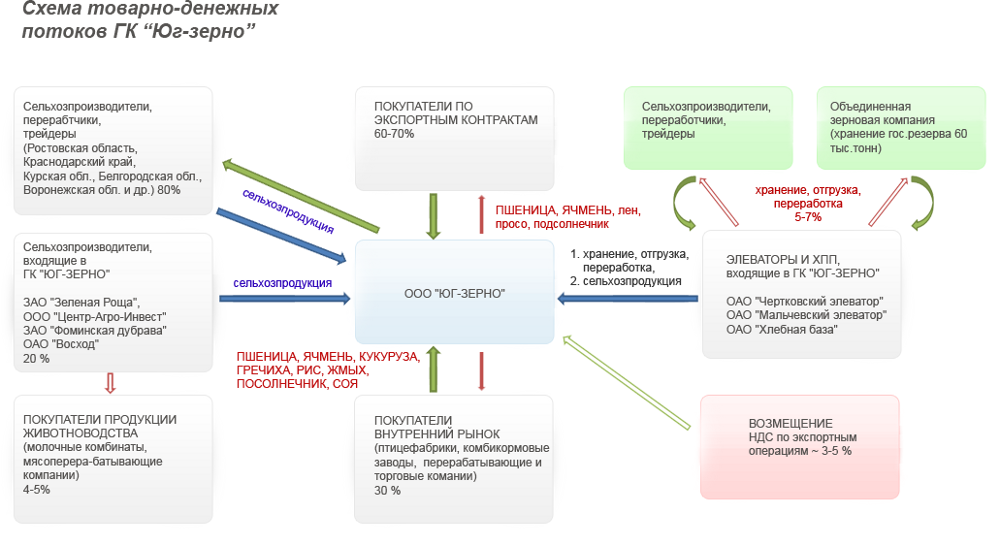
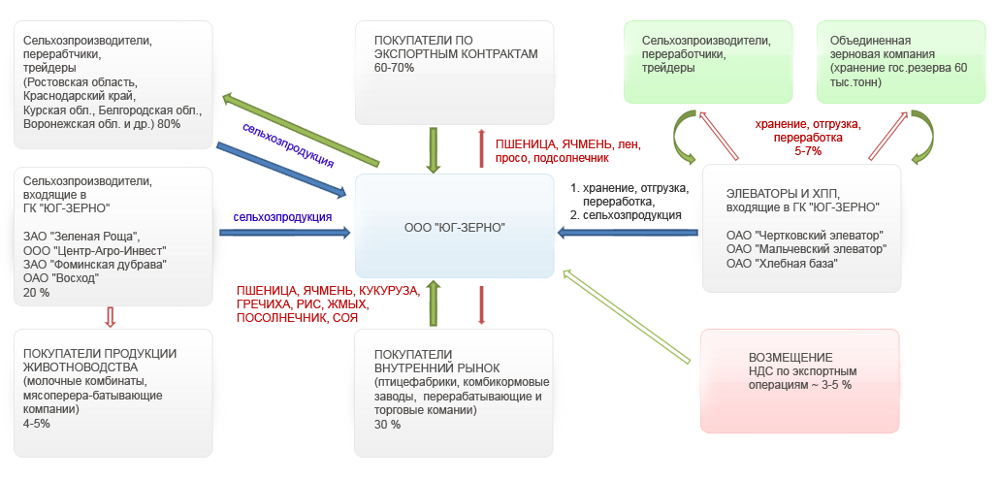
главную переделал

diff --git a/www/css/style.css b/www/css/style.css
@@ -97,6 +97,41 @@ footer {
 .main_block h2 {
 	font-size: 12px;
 }
+
+.history_main {
+	color: #545250;
+	font-family: Arial;
+	font-size: 12px;
+	width: 320px;
+	display: inline-block;
+	vertical-align: top;
+	margin: 10px 0;
+}
+
+.history_main h1 {
+	font-size: 16px;
+}
+
+.history_main h2 {
+	font-size: 12px;
+}
+
+.mini_logo {
+	background: url("../img/mini_logo.png") no-repeat;
+	width: 62px;
+	height: 41px;
+	position: absolute;
+	margin-left: 140px;
+	margin-top: 10px;
+}
+
+.history_img {
+	background: url("../img/history_img.png") no-repeat;
+	width: 386px;
+	height: 129px;
+	position: absolute;
+	margin-left: 315px;
+}
 .main_block_left {
 	margin-right: 50px;
 	padding-left: 20px;
@@ -111,7 +146,6 @@ footer {
 }
 
 .history_main {
-	background: url("../img/main_history.jpg") no-repeat;
 	width: 737px;
 	height: 254px;
 	margin-left: 20px;
